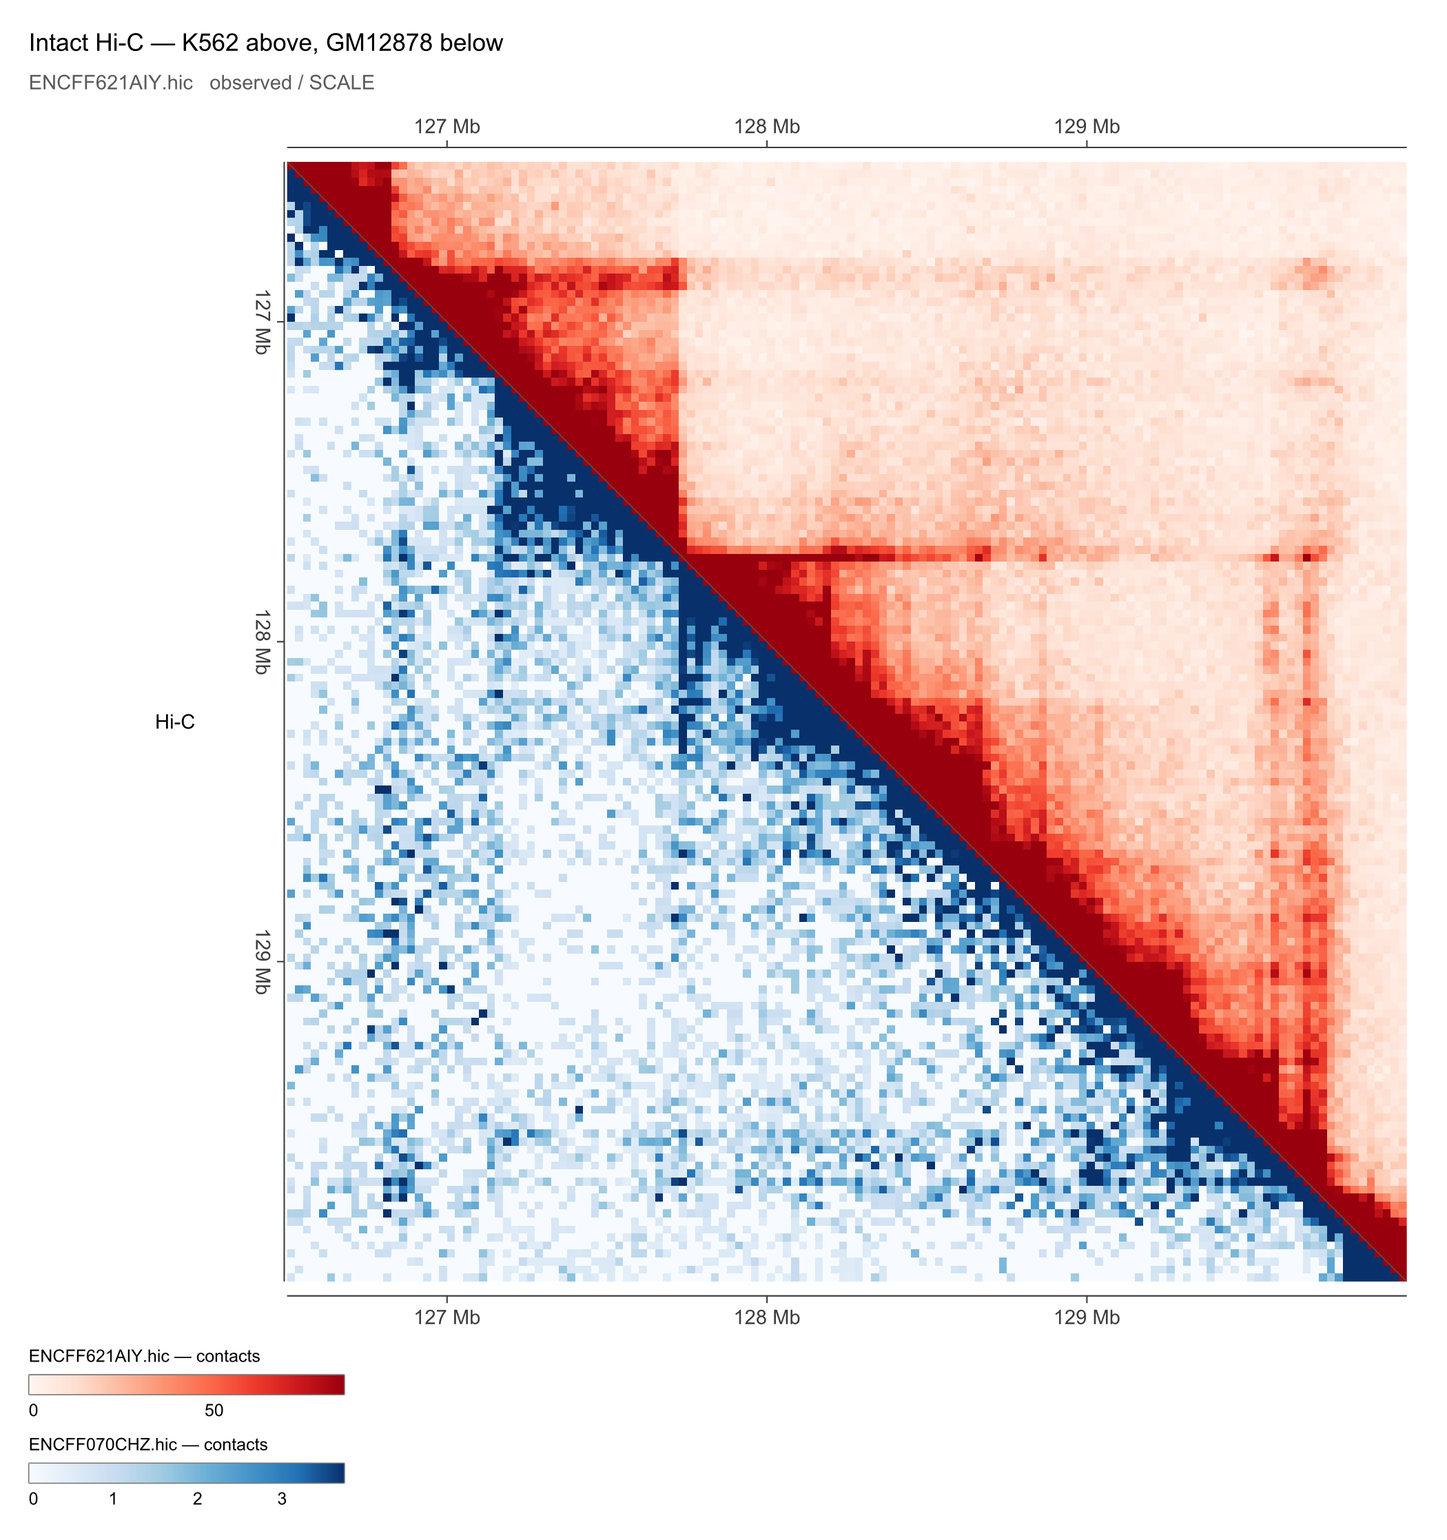
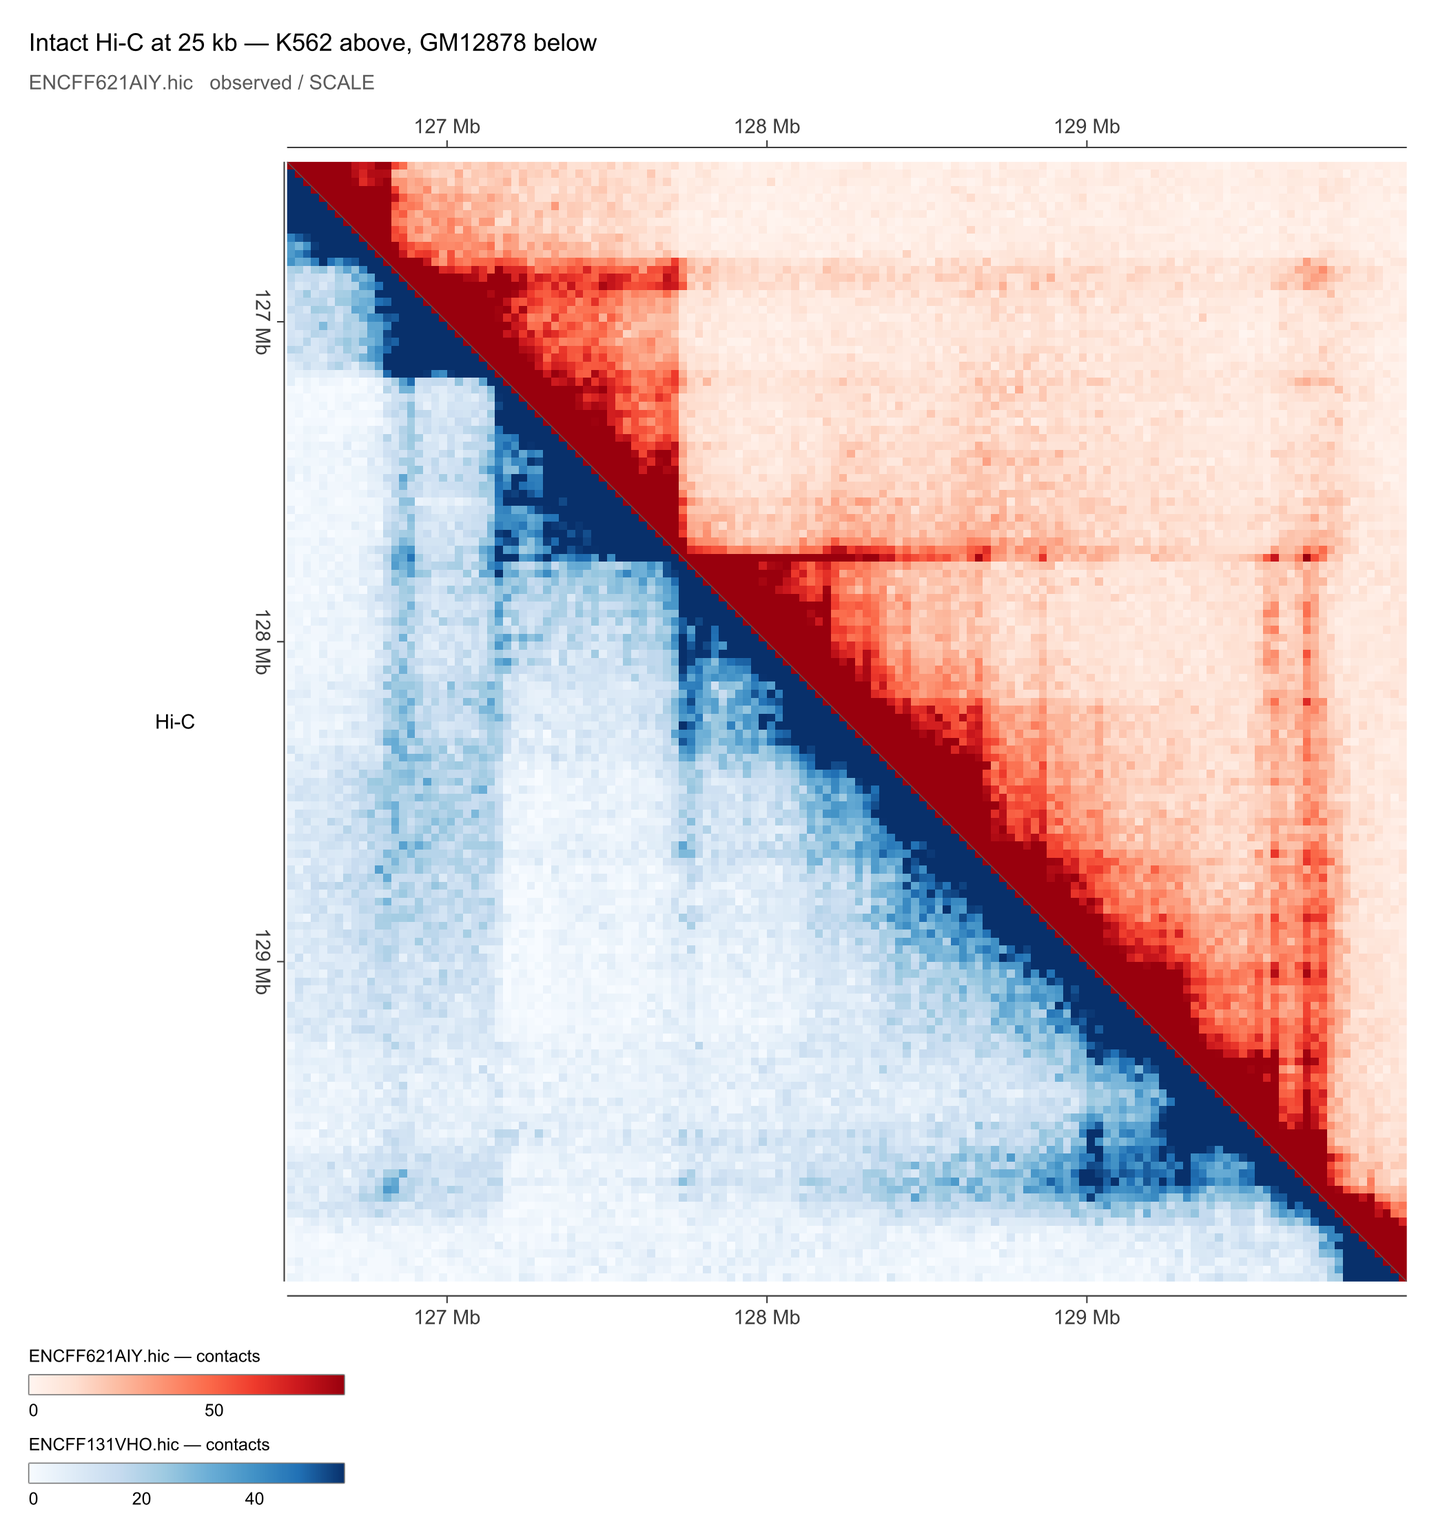
update plots

diff --git a/src/figure/figure.cpp b/src/figure/figure.cpp
@@ -132,16 +132,17 @@ Figure::Layout Figure::build_layout(double device_scale) {
         std::vector<double> flex;
         std::vector<double> bottom_heights;  // x tracks, below the map
         std::vector<double> bottom_flex;
-        std::vector<double> y_widths;  // side tracks, square panels only
+        std::vector<double> y_widths;  // side tracks, matrix panels only
         double label_width{};
         double title_height{};
         double natural_height{};
         double plot_left{};
         double plot_right{};
         double spacing{};
-        // Square panels only.
+        // Matrix panels only.
         double map_left{};
         double map_side{};
+        double map_height{};
         double y_label_height{};
 
         [[nodiscard]] double total_flex() const {
@@ -203,10 +204,10 @@ Figure::Layout Figure::build_layout(double device_scale) {
         context.theme = &theme_;
         context.preparation_id = preparation_id;
 
-        // Square panels reserve columns on the left for the quarter-turned
-        // tracks, and the map takes whatever square fits in what is left.
+        // Matrix panels reserve columns on the left for quarter-turned tracks.
         state.map_left = state.plot_left;
         state.map_side = state.plot_right - state.plot_left;
+        state.map_height = panel.matrix_height_ > 0.0 ? panel.matrix_height_ : state.map_side;
         if (panel.square_layout()) {
             const double available = state.plot_right - state.plot_left;
             state.y_widths.resize(panel.y_tracks_.size());
@@ -233,8 +234,11 @@ Figure::Layout Figure::build_layout(double device_scale) {
                 ViewContext side_context = context;
                 side_context.x_region = panel.region_y();
                 side_context.y_region = panel.region_y();
+                const double axis_length = panel.matrix_height_ > 0.0
+                                               ? panel.matrix_height_
+                                               : map_side;
                 for (std::size_t i = 0; i < panel.y_tracks_.size(); ++i) {
-                    side_context.content = Rect{0.0, 0.0, std::max(map_side, 1.0),
+                    side_context.content = Rect{0.0, 0.0, std::max(axis_length, 1.0),
                                                 state.y_widths[i]};
                     panel.y_tracks_[i]->prepare(side_context);
                     state.y_widths[i] = std::max(0.0, panel.y_tracks_[i]->preferred_height());
@@ -251,6 +255,9 @@ Figure::Layout Figure::build_layout(double device_scale) {
             }
             state.map_side = std::max(available - columns_total(), 1.0);
             state.map_left = state.plot_right - state.map_side;
+            state.map_height = panel.matrix_height_ > 0.0
+                                   ? panel.matrix_height_
+                                   : state.map_side;
 
             bool any_side_name = false;
             for (const auto& track : panel.y_tracks_) {
@@ -289,15 +296,16 @@ Figure::Layout Figure::build_layout(double device_scale) {
 
         const double top_stack = prepare_band(panel.tracks_, state.heights, state.flex);
 
-        // The panel is up to three horizontal bands: tracks, then the square
+        // The panel is up to three horizontal bands: tracks, then the
         // map (when there is one), then the bottom tracks.
         double content_height = top_stack;
         if (panel.square_layout()) {
             ViewContext matrix_context = context;
-            matrix_context.content = Rect{state.map_left, 0.0, state.map_side, state.map_side};
+            matrix_context.content = Rect{state.map_left, 0.0, state.map_side,
+                                          state.map_height};
             panel.matrix_->prepare(matrix_context);
             if (!panel.tracks_.empty()) content_height += state.spacing;
-            content_height += state.map_side + panel.matrix_->margins().vertical() +
+            content_height += state.map_height + panel.matrix_->margins().vertical() +
                               state.y_label_height;
         }
         // Linked colour bars read their fitted scale from the matrix, so the
@@ -419,13 +427,13 @@ Figure::Layout Figure::build_layout(double device_scale) {
             const Insets& matrix_margins = panel.matrix_->margins();
             y += matrix_margins.top;
             const double map_top = y;
-            const Rect map{state.map_left, map_top, state.map_side, state.map_side};
+            const Rect map{state.map_left, map_top, state.map_side, state.map_height};
 
             TrackLayout matrix_entry;
             matrix_entry.track = panel.matrix_.get();
             matrix_entry.rect.full = map;
             matrix_entry.rect.content = map;
-            matrix_entry.rect.label = Rect{map.left(), map_top, 0.0, state.map_side};
+            matrix_entry.rect.label = Rect{map.left(), map_top, 0.0, state.map_height};
             matrix_entry.rect.x = GenomicTransform{panel.region(), map.left(), map.right()};
             matrix_entry.rect.y = GenomicTransform{panel.region_y(), map.top(), map.bottom()};
             matrix_entry.clip = clip_for(map);
@@ -453,13 +461,13 @@ Figure::Layout Figure::build_layout(double device_scale) {
                 entry.side = true;
                 entry.rotation = -90.0;
                 entry.origin = Point{column_right, map_top};
-                entry.rect.full = Rect{0.0, 0.0, state.map_side, state.y_widths[i]};
+                entry.rect.full = Rect{0.0, 0.0, state.map_height, state.y_widths[i]};
                 entry.rect.content = entry.rect.full;
                 entry.rect.label = Rect{0.0, 0.0, 0.0, state.y_widths[i]};
-                entry.rect.x = GenomicTransform{panel.region_y(), 0.0, state.map_side};
+                entry.rect.x = GenomicTransform{panel.region_y(), 0.0, state.map_height};
                 entry.rect.y = entry.rect.x;
                 entry.clip = Rect{column_left - 1.0, map_top - 1.0, state.y_widths[i] + 2.0,
-                                  state.map_side + 2.0};
+                                  state.map_height + 2.0};
                 entry.draw_name = track.show_name() && !track.name().empty();
                 entry.name_anchor =
                     Point{(column_left + column_right) / 2.0, map.bottom() + 2.0};

diff --git a/tests/test_gre.cpp b/tests/test_gre.cpp
@@ -442,6 +442,51 @@ void test_square_layout() {
     CHECK(image.get(0, static_cast<int>(expected_side / 2.0)) == colors::white);
 }
 
+void test_rectangular_matrix_with_side_track() {
+    auto matrix = MemoryMatrixSource::make(
+        MatrixRegion{"chr1", 0, 1000, "chr1", 2000, 3000}, 100, 10, 10,
+        std::vector<float>(100, 1.0F));
+    auto signal = MemorySignalSource::make("chr1", {{2000, 2200, 5.0}});
+
+    Figure figure;
+    figure.set_width(300.0).set_margins(Insets{0.0});
+    Panel& panel = figure.add_panel();
+    panel.set_region("chr1", 0, 1000)
+        .set_region_y(GenomicRegion{"chr1", 2000, 3000})
+        .set_label_width(0.0)
+        .set_matrix_height(120.0);
+    panel.add_y_track(SignalTrack{signal}.height(25.0).show_name(false));
+    panel.set_matrix(HeatmapTrack{matrix}
+                         .mode(HeatmapMode::rectangle)
+                         .height(120.0)
+                         .show_name(false));
+
+    struct RectProbe final : Canvas {
+        Rect map;
+        std::vector<Rect> clips;
+        Size size() const override { return {300.0, 300.0}; }
+        void fill_rect(const Rect&, Color) override {}
+        void stroke_rect(const Rect&, const StrokeStyle&) override {}
+        void stroke_line(Point, Point, const StrokeStyle&) override {}
+        void stroke_polyline(std::span<const Point>, const StrokeStyle&) override {}
+        void fill_polygon(std::span<const Point>, Color, FillRule) override {}
+        void draw_text(Point, std::string_view, const TextStyle&) override {}
+        void draw_image(const Rect& rect, const ImageView&) override { map = rect; }
+        void push_clip(const Rect& rect) override { clips.push_back(rect); }
+        void pop_clip() override {}
+    } canvas;
+    figure.render(canvas);
+    CHECK_NEAR(canvas.map.height, 120.0, 1e-9);
+    CHECK(canvas.map.width > 200.0);
+    bool side_matches_map = false;
+    for (const Rect& clip : canvas.clips) {
+        if (std::fabs(clip.height - 122.0) < 1e-9 && clip.width < 40.0) {
+            side_matches_map = true;
+        }
+    }
+    CHECK(side_matches_map);
+}
+
 void test_layout() {
     auto signal = MemorySignalSource::make(
         "chr1", {{1000, 2000, 5.0}, {2000, 3000, 10.0}, {3000, 4000, 2.0}});
@@ -1183,6 +1228,7 @@ int main() {
     test_draw_image();
     test_rotated_canvas();
     test_square_layout();
+    test_rectangular_matrix_with_side_track();
     test_layout();
     test_signal_source();
     test_matrix_source();

diff --git a/tools/gre_plot.cpp b/tools/gre_plot.cpp
@@ -1231,12 +1231,13 @@ int main(int argc, char** argv) {
                     (spec.kind == TrackKind::bedpe && !is_arc_track(spec))) {
                     continue;
                 }
-                const bool on_x = spec.axis != TrackAxis::y || !square;
+                const bool on_x = spec.axis != TrackAxis::y || !(square || rectangle);
                 if (on_x) panel.add_track(build_track(spec, sources[i], /*vertical=*/false));
             }
 
             HeatmapTrack* map = nullptr;
-            if (square) {
+            if (square || rectangle) {
+                if (rectangle) panel.set_matrix_height(options.map_height.value_or(240.0));
                 panel.add_y_track(AxisTrack{}.position(AxisPosition::bottom).height(26.0));
                 for (std::size_t i = 0; i < options.tracks.size(); ++i) {
                     const TrackSpec& spec = options.tracks[i];
@@ -1249,15 +1250,15 @@ int main(int argc, char** argv) {
                 }
                 if (!options.no_map) {
                     map = static_cast<HeatmapTrack*>(&panel.set_matrix(build_map(
-                        options, matrix, comparison, HeatmapMode::square, shared_primary,
+                        options, matrix, comparison,
+                        rectangle ? HeatmapMode::rectangle : HeatmapMode::square, shared_primary,
                         shared_comparison)));
                 }
                 panel.add_bottom_track(AxisTrack{}.position(AxisPosition::bottom));
             } else if (!options.no_map) {
-                const HeatmapMode mode =
-                    rectangle ? HeatmapMode::rectangle : HeatmapMode::triangle;
                 map = static_cast<HeatmapTrack*>(&panel.add_track(build_map(
-                    options, matrix, comparison, mode, shared_primary, shared_comparison)));
+                    options, matrix, comparison, HeatmapMode::triangle, shared_primary,
+                    shared_comparison)));
             }
 
             if (map != nullptr) {

diff --git a/include/gre/figure/panel.hpp b/include/gre/figure/panel.hpp
@@ -39,12 +39,12 @@ public:
     }
     Track& add_track(std::unique_ptr<Track> track);
 
-    // ---- square (Juicebox-style) layout -----------------------------------
+    // ---- matrix layout -----------------------------------------------------
     //
-    // Setting a matrix track switches the panel to a square arrangement:
+    // Setting a matrix track switches the panel to a matrix arrangement:
     //
     //     [ x tracks, full map width      ]
-    //     [ y ][ y ][   square contact map ]
+    //     [ y ][ y ][      contact map    ]
     //
     // Tracks added with add_track() stay horizontal above the map; tracks
     // added with add_y_track() are quarter-turned and run down the map's left
@@ -82,6 +82,8 @@ public:
     Track& add_bottom_track(std::unique_ptr<Track> track);
 
     [[nodiscard]] bool square_layout() const noexcept { return matrix_ != nullptr; }
+    // By default the matrix is square; use a positive height for a rectangle.
+    Panel& set_matrix_height(double height);
     [[nodiscard]] Track* matrix() noexcept { return matrix_.get(); }
     [[nodiscard]] std::size_t y_track_count() const noexcept { return y_tracks_.size(); }
     [[nodiscard]] Track& y_track(std::size_t index) { return *y_tracks_.at(index); }
@@ -114,6 +116,7 @@ private:
     bool has_region_y_{false};
     std::string title_;
     double height_{0.0};
+    double matrix_height_{0.0};
     Insets padding_{0.0};
     double label_width_{-1.0};    // negative: inherit from the theme
     double track_spacing_{-1.0};  // negative: inherit from the theme

diff --git a/src/figure/panel.cpp b/src/figure/panel.cpp
@@ -72,6 +72,11 @@ Panel& Panel::set_height(double height) {
     return *this;
 }
 
+Panel& Panel::set_matrix_height(double height) {
+    matrix_height_ = height;
+    return *this;
+}
+
 Panel& Panel::set_padding(Insets padding) {
     padding_ = padding;
     return *this;

diff --git a/examples/gallery/README.md b/examples/gallery/README.md
@@ -35,7 +35,7 @@ All coordinates use GRCh38.
 | accession | role | format | ENCODE record | direct URL |
 |---|---|---|---|---|
 | `ENCFF621AIY` | K562 mapQ30 contact matrix | hic | [record](https://www.encodeproject.org/files/ENCFF621AIY/) | [download/range source](https://www.encodeproject.org/files/ENCFF621AIY/@@download/ENCFF621AIY.hic) |
-| `ENCFF070CHZ` | GM12878 intact Hi-C mapQ30 contact matrix for comparison | hic | [record](https://www.encodeproject.org/files/ENCFF070CHZ/) | [download/range source](https://www.encodeproject.org/files/ENCFF070CHZ/@@download/ENCFF070CHZ.hic) |
+| `ENCFF131VHO` | GM12878 intact Hi-C mapQ30 contact matrix for comparison | hic | [record](https://www.encodeproject.org/files/ENCFF131VHO/) | [download/range source](https://www.encodeproject.org/files/ENCFF131VHO/@@download/ENCFF131VHO.hic) |
 | `ENCFF944MHS` | K562 5 kb compartment eigenvector | bigWig | [record](https://www.encodeproject.org/files/ENCFF944MHS/) | [download/range source](https://www.encodeproject.org/files/ENCFF944MHS/@@download/ENCFF944MHS.bigWig) |
 | `ENCFF256ZMD` | K562 mapQ30 loops | BEDPE.gz | [record](https://www.encodeproject.org/files/ENCFF256ZMD/) | [stream source](https://www.encodeproject.org/files/ENCFF256ZMD/@@download/ENCFF256ZMD.bedpe.gz) |
 | `ENCFF126GED` | K562 mapQ30 5 kb contact domains | BEDPE.gz | [record](https://www.encodeproject.org/files/ENCFF126GED/) | [stream source](https://www.encodeproject.org/files/ENCFF126GED/@@download/ENCFF126GED.bedpe.gz) |
@@ -48,6 +48,8 @@ All coordinates use GRCh38.
 
 The K562 Hi-C, compartment, loop, and domain files belong to released intact
 Hi-C experiment [ENCSR479XDG](https://www.encodeproject.org/experiments/ENCSR479XDG/).
+The comparison matrix belongs to released GM12878 intact Hi-C experiment
+[ENCSR016TMB](https://www.encodeproject.org/experiments/ENCSR016TMB/).
 The H3K27ac peaks belong to released K562 Histone ChIP-seq experiment
 [ENCSR000AKP](https://www.encodeproject.org/experiments/ENCSR000AKP/).
 The additional H3K27ac signal is from that experiment; ATAC-seq is from
@@ -62,7 +64,7 @@ does:
 
 ```bash
 HIC='https://www.encodeproject.org/files/ENCFF621AIY/@@download/ENCFF621AIY.hic'
-GM12878_HIC='https://www.encodeproject.org/files/ENCFF070CHZ/@@download/ENCFF070CHZ.hic'
+GM12878_HIC='https://www.encodeproject.org/files/ENCFF131VHO/@@download/ENCFF131VHO.hic'
 COMPARTMENTS='https://www.encodeproject.org/files/ENCFF944MHS/@@download/ENCFF944MHS.bigWig'
 LOOPS='https://www.encodeproject.org/files/ENCFF256ZMD/@@download/ENCFF256ZMD.bedpe.gz'
 DOMAINS='https://www.encodeproject.org/files/ENCFF126GED/@@download/ENCFF126GED.bedpe.gz'
@@ -131,8 +133,10 @@ matching mapQ30 loop BEDPE are shown without an extra score cutoff.
 ## 3. VS mode: K562 above, GM12878 below
 
 Two intact Hi-C mapQ30 matrices compare K562 above the diagonal with
-GM12878 below. Both halves use linear scales and have aligned legends. Loop
-overlays are omitted to keep the comparison focused on the matrices.
+GM12878 below. Both are GRCh38, are queried at 25 kb with SCALE
+normalization, and use linear contact scales with aligned legends. The
+GM12878 file comes from a deeper intact Hi-C experiment than the previous
+single-replicate example. Loop overlays are omitted here.
 
 ```bash
 "$GRE_PLOT" "$HIC" chr8:126500000-130000000 \
@@ -141,7 +145,7 @@ overlays are omitted to keep the comparison focused on the matrices.
   --vs "$GM12878_HIC" --vs-norm SCALE --vs-side below \
     --vs-map-colors blues --vs-map-linear --vs-map-percentile 0.90 \
   --width 7 --dpi 300 --formats png --theme publication \
-  --title 'Intact Hi-C — K562 above, GM12878 below' \
+  --title 'Intact Hi-C at 25 kb — K562 above, GM12878 below' \
   --diagonal --out "examples/gallery/generated/03_k562_vs_gm12878"
 ```
 
@@ -180,16 +184,20 @@ are panel-scoped. Loop overlays are omitted here for a clearer comparison.
 ## 5. Dark off-diagonal rectangle
 
 Rectangle mode treats x and y as independent regions. This example displays a
-square-shaped block away from the main diagonal, overlays oriented loop boxes, and projects
-separate supplied genomic intervals across x and y as cyan and yellow bands.
+square-shaped block away from the main diagonal, overlays oriented loop boxes,
+and projects genomic intervals across x and y as cyan and yellow bands. The
+K562 CTCF signal is shown above the horizontal axis and beside the vertical
+axis, each queried over its corresponding genomic region.
 
 ```bash
 "$GRE_PLOT" "$HIC" chr8:126500000-128300000 \
   --layout rectangle --region-y chr8:128000000-130000000 \
-  --norm SCALE --resolution 10000 --map-height 390 --map-linear \
+  --norm SCALE --resolution 10000 --map-height 360 --map-linear \
   --map-colors magma --map-percentile 0.97 \
   --width 7 --dpi 500 --formats png --theme dark \
   --title 'K562 — off-diagonal contact block' \
+  "$CTCF_SIGNAL" --name 'CTCF' --axis both --height 26 \
+    --style area --color '#2EC4B6' --percentile 0.995 \
   "$LOOPS" --style box --fill '#FFFFFF12' --color '#B4BFC9' \
     --score-filter-min 60 --line-width 0.6 --score-size 0.7,0.7 \
   --v-highlight chr8:127700000-127750000 \
@@ -283,37 +291,43 @@ The loop calls come from the same intact Hi-C experiment.
 
 ![K562 intact Hi-C 5 kb square contact map in viridis](generated/08_intact_5kb_viridis.png)
 
-## 9. Local 2 kb map in blues
+## 9. Local 2 kb map in Juicebox white-to-red
 
-A tighter 500 kb region shows the native 2 kb matrix bins with a linear blue scale
-and red loop annotations above the diagonal.
+A tighter 500 kb region shows the native 2 kb matrix bins with the pure
+white-to-red Juicebox palette, red loop annotations above the diagonal, and a
+K562 CTCF signal track.
 
 ```bash
 "$GRE_PLOT" "$HIC" chr8:127450000-127950000 \
   --layout square --norm SCALE --resolution 2000 \
-  --map-linear --map-colors blues --map-percentile 0.93 \
+  --map-linear --map-colors juicebox --map-percentile 0.93 \
   --width 7 --dpi 500 --formats png --theme publication \
-  --title 'K562 intact Hi-C — local contacts at 2 kb' \
+  --title 'K562 intact Hi-C — 2 kb, white-to-red scale' \
+  "$CTCF_SIGNAL" --name 'CTCF' --height 28 --style area \
+    --color '#187B83' --percentile 0.995 \
   "$LOOPS" --style loop --side above --color '#E31A1C' \
     --line-width 0.8 --score-size 0.5,0.5 \
-  --out "examples/gallery/generated/09_intact_2kb_blues"
+  --out "examples/gallery/generated/09_intact_2kb_juicebox"
 ```
 
-![K562 intact Hi-C 2 kb square contact map in blues](generated/09_intact_2kb_blues.png)
+![K562 intact Hi-C 2 kb square contact map in Juicebox white-to-red](generated/09_intact_2kb_juicebox.png)
 
 ## 10. Broad 50 kb map in reds
 
-The 20 Mb chr8 view uses 50 kb bins and a 0–75 linear color scale to show
-larger scale contact structure, with a compartment track above the map.
+The 20 Mb chr8 view uses 50 kb bins and a 0–100 linear color scale to show
+larger scale contact structure, with a compartment track above the map and
+cyan domain legs over the contact triangle.
 
 ```bash
 "$GRE_PLOT" "$HIC" chr8:115000000-135000000 \
   --layout pyramid --norm SCALE --resolution 50000 --max-distance 8000000 \
-  --map-linear --map-colors reds --map-max 75 \
+  --map-linear --map-colors reds --map-max 100 \
   --width 7 --dpi 300 --formats png --theme publication \
   --title 'K562 intact Hi-C — chr8 overview at 50 kb' \
   "$COMPARTMENTS" --name 'A/B compartment' --height 30 --style area \
     --color '#B2182B' --neg-color '#2166AC' \
+  "$DOMAINS" --style domain --side above --color '#00AFC5' \
+    --line-width 0.65 \
   --out "examples/gallery/generated/10_intact_50kb_reds"
 ```
 
